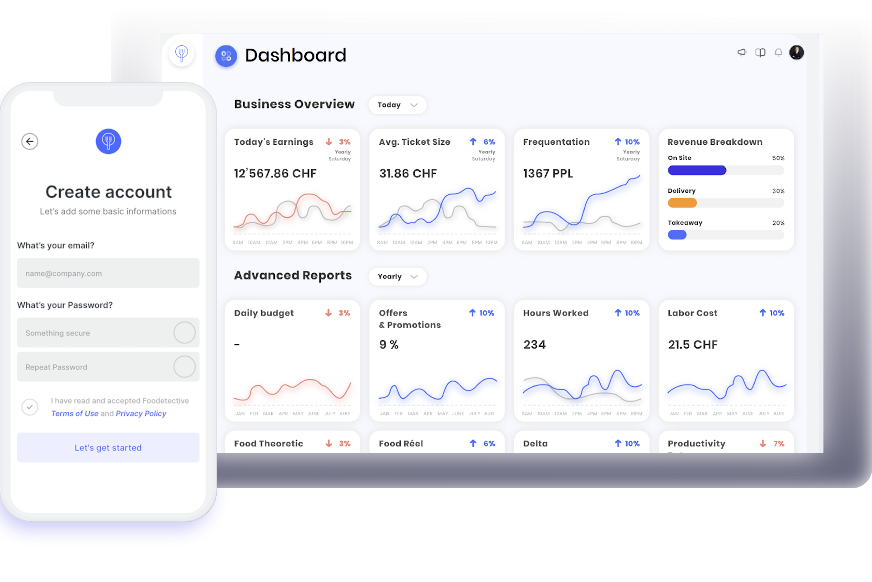
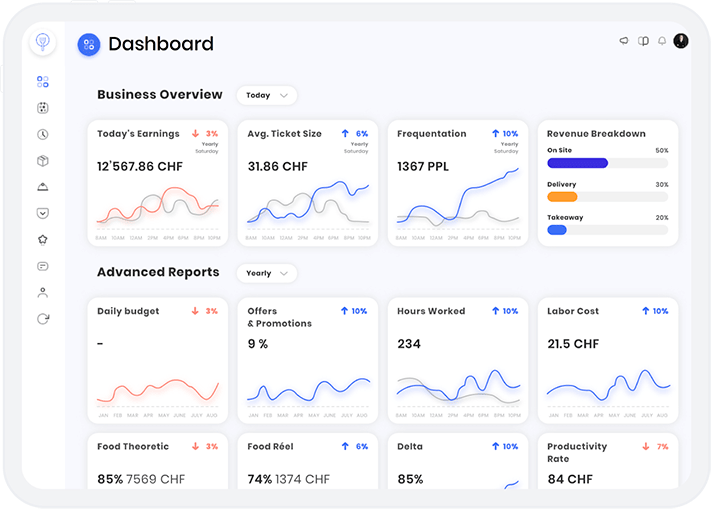
Add landing new styles
TFD-2678

diff --git a/sections/landing/Features/index.jsx b/sections/landing/Features/index.jsx
@@ -9,11 +9,27 @@ import { BlueText } from "../sharedStyled";
 const Features = ({ t, featuresRef }) => (
   <FeaturesWrapper width="auto" pt={75} pb={[0, 75]}>
     <Box ref={featuresRef} mt={[180, 280]} mb={[0, 60]} width={[1]}>
-      <H2Styled>{t("features.header")}</H2Styled>
-      <ParagraphStyled>
-        {t("features.subHeader.start")}
-        <BlueText>{t("features.subHeader.end")}</BlueText>
-      </ParagraphStyled>
+      <Flex
+        flexDirection={["column", "column", "row"]}
+        alignItems="center"
+        justifyContent="space-between"
+      >
+        <H2Styled>{t("features.header")}</H2Styled>
+        <Button
+          styleName="becomePartner"
+          onClick={() => {
+            window.location.href = `https://foodetective.typeform.com/to/tzqu8b`;
+          }}
+        >
+          {t("cooperations.becomePartner")}
+        </Button>
+      </Flex>
+      <Box width={[1, 3 / 4]}>
+        <ParagraphStyled big>
+          {t("features.subHeader.start")}
+          <BlueText>{t("features.subHeader.end")}</BlueText>
+        </ParagraphStyled>
+      </Box>
     </Box>
     <div
       style={{
@@ -37,16 +53,6 @@ const Features = ({ t, featuresRef }) => (
         controls
       />
     </div>
-    <Flex width={1} justifyContent="center" mt={[0, 40]}>
-      <Button
-        styleName="becomePartner"
-        onClick={() => {
-          window.location.href = `https://foodetective.typeform.com/to/tzqu8b`;
-        }}
-      >
-        {t("cooperations.becomePartner")}
-      </Button>
-    </Flex>
   </FeaturesWrapper>
 );
 

diff --git a/sections/landing/Features/styled.js b/sections/landing/Features/styled.js
@@ -1,13 +1,9 @@
-import styled, { css } from "styled-components";
+import styled from "styled-components";
 import { Flex } from "@rebass/grid";
-import { H2 } from "components";
-
-export const alignCenterMobile = css`
-  text-align: center;
-  @media (min-width: ${p => p.theme.breakpoints[0]}) {
-    text-align: start;
-  }
-`;
+import {
+  H2Styled as BaseH2Styled,
+  ParagraphStyled as BaseParagraphStyled
+} from "../sharedStyled";
 
 export const FeaturesWrapper = styled(Flex).attrs(() => ({
   justifyContent: "start",
@@ -19,12 +15,8 @@ export const FeaturesWrapper = styled(Flex).attrs(() => ({
   max-width: 1150px;
 `;
 
-export const H2Styled = styled(H2)`
-  ${alignCenterMobile}
-  color: black;
-  font-weight: ${p => p.theme.fontWeights.semiBold};
-  font-size: ${p => p.theme.fontSizes.f30};
-  letter-spacing: 0.6px;
+export const H2Styled = styled(BaseH2Styled)`
+  color: rgb(${p => p.theme.colors.darkText});
 `;
 
 export const Image = styled.img`
@@ -34,15 +26,7 @@ export const Image = styled.img`
   margin: 20px 0;
 `;
 
-export const ParagraphStyled = styled("p")`
-  ${alignCenterMobile}
+export const ParagraphStyled = styled(BaseParagraphStyled)`
   margin: 0;
-  color: black;
-  font-weight: 500;
-  font-size: ${p => p.theme.fontSizes.f16};
-  line-height: 20px;
-  letter-spacing: 0.3px;
-  @media (min-width: ${p => p.theme.breakpoints[2]}) {
-    font-size: ${p => p.theme.fontSizes.f16};
-  }
+  color: rgb(${p => p.theme.colors.darkText});
 `;

diff --git a/sections/landing/Plans/styled.js b/sections/landing/Plans/styled.js
@@ -1,13 +1,9 @@
-import styled, { css } from "styled-components";
-import { Flex, Box } from "@rebass/grid";
-import { H2, Paragraph } from "components";
-
-const alignCenterMobile = css`
-  text-align: center;
-  @media (min-width: ${p => p.theme.breakpoints[0]}) {
-    text-align: start;
-  }
-`;
+import styled from "styled-components";
+import { Box, Flex } from "@rebass/grid";
+import {
+  H2Styled as BaseH2Styled,
+  ParagraphStyled as BaseParagraphStyled
+} from "../sharedStyled";
 
 export const PlansWrapper = styled(Flex).attrs(() => ({
   flexDirection: "row",
@@ -37,20 +33,16 @@ export const PromotionWrapper = styled(Box).attrs(() => ({
   border-radius: ${p => p.theme.radius.default};
 `;
 
-export const H2Styled = styled(H2)`
-  ${alignCenterMobile}
-  color: #333;
-  font-weight: ${p => p.theme.fontWeights.bold};
-  font-size: ${p => p.theme.fontSizes.f30};
-  letter-spacing: 0.6px;
+export const H2Styled = styled(BaseH2Styled)`
+  color: rgb(${p => p.theme.colors.darkText});
 `;
 
-export const ParagraphStyled = styled(Paragraph)`
-  ${alignCenterMobile}
-  color: #828282;
-  font-weight: ${p => p.theme.fontWeights.medium};
-  font-size: ${p => p.theme.fontSizes.f15};
-  line-height: 20px;
-  letter-spacing: 0.3px;
-  opacity: 0.8;
+export const ParagraphStyled = styled(BaseParagraphStyled)`
+  ${p =>
+    p.big
+      ? `color: rgb(${p.theme.colors.darkText});`
+      : `
+    color: #828282;
+    opacity: 0.8;
+  `}
 `;

diff --git a/sections/landing/DevelopersAndApi/index.jsx b/sections/landing/DevelopersAndApi/index.jsx
@@ -2,18 +2,18 @@ import React from "react";
 import { func, oneOfType, shape, any } from "prop-types";
 import { Box, Flex } from "@rebass/grid";
 import { Button } from "components";
-import { DevelopersAndApiWrapper, ParagraphStyled } from "./styled";
-import { BlueText, H2Styled } from "../sharedStyled";
+import { DevelopersAndApiWrapper } from "./styled";
+import { BlueText, H2Styled, ParagraphStyled } from "../sharedStyled";
 
 const DevelopersAndApi = ({ t, developersAndApiRef }) => (
   <DevelopersAndApiWrapper ref={developersAndApiRef}>
     <Box width={[1, 1 / 2]}>
       <H2Styled>{t("developersAndApi.header")}</H2Styled>
-      <ParagraphStyled>
+      <ParagraphStyled big>
         {t("developersAndApi.subHeader.start")}
         <BlueText>{t("developersAndApi.subHeader.end")}</BlueText>
-        {t("developersAndApi.paragraph")}
       </ParagraphStyled>
+      <ParagraphStyled>{t("developersAndApi.paragraph")}</ParagraphStyled>
     </Box>
     <Flex width={1} justifyContent="center" mt={[40, 80]}>
       <Button

diff --git a/sections/landing/TopSection/index.jsx b/sections/landing/TopSection/index.jsx
@@ -6,9 +6,15 @@ import { FontAwesomeIcon } from "@fortawesome/react-fontawesome";
 import { H1Styled, ParagraphStyled, Image } from "./styled";
 
 const TopSection = ({ t, lng }) => (
-  <Box mt={[30, 170]} mb={[1, 170]} width={1}>
-    <Flex alignItems="start" flexWrap="wrap" m="auto" width={[1, 1150]} px={3}>
-      <Box width={[1, 1 / 2]} p={[3, 0]}>
+  <Box mb={[30, 170]} width={1}>
+    <Flex
+      alignItems="start"
+      flexWrap="wrap"
+      m="auto"
+      width={[1, 1, 1, 1150]}
+      px={3}
+    >
+      <Box width={[1, 1, 1, 1 / 2]} p={[3, 0]} pt={[30, 110]}>
         <H1Styled>{`${t("topSection.header.start")}${t(
           "topSection.header.end"
         )}`}</H1Styled>
@@ -48,8 +54,8 @@ const TopSection = ({ t, lng }) => (
           </Box>
         </Flex>
       </Box>
-      <Box width={[1, 1 / 2]}>
-        <Image />
+      <Box width={[1, 1, 1, 1 / 2]} pt={[30, 70]} pl={[1, 1, 1, 80]}>
+        <Image src="/static/img/topsection/dashboard.png" />
       </Box>
     </Flex>
   </Box>

diff --git a/sections/landing/TopSection/styled.js b/sections/landing/TopSection/styled.js
@@ -5,8 +5,10 @@ import { alignCenterMobile } from "../sharedStyled";
 export const H1Styled = styled(H1)`
   ${alignCenterMobile}
   color: white;
+  letter-spacing: 1.2px;
   @media (min-width: ${p => p.theme.breakpoints[2]}) {
-    font-size: ${p => p.theme.fontSizes.f52};
+    font-size: ${p => p.theme.fontSizes.f60};
+    line-height: 70px;
   }
 `;
 
@@ -22,19 +24,9 @@ export const ParagraphStyled = styled(Paragraph)`
   }
 `;
 
-export const Image = styled.div`
+export const Image = styled.img`
   width: 100%;
-  height: 100%;
-  min-height: 50vh;
-  max-height: 500px;
-  background-image: url("/static/img/topsection/dashboard.png");
-  background-repeat: no-repeat;
-  background-position: center center;
-  background-size: contain;
-  @media (min-width: ${p => p.theme.breakpoints[0]}) {
-    width: 100vw;
-    min-height: 600px;
-    max-height: 800px;
-    background-position: top left;
+  @media (min-width: ${p => p.theme.breakpoints[2]}) {
+    width: auto;
   }
 `;

diff --git a/sections/landing/DevelopersAndApi/styled.js b/sections/landing/DevelopersAndApi/styled.js
@@ -1,13 +1,5 @@
-import styled, { css } from "styled-components";
+import styled from "styled-components";
 import { Flex } from "@rebass/grid";
-import { Paragraph } from "components";
-
-export const alignCenterMobile = css`
-  text-align: center;
-  @media (min-width: ${p => p.theme.breakpoints[0]}) {
-    text-align: start;
-  }
-`;
 
 export const DevelopersAndApiWrapper = styled(Flex).attrs(() => ({
   justifyContent: "start",
@@ -16,16 +8,4 @@ export const DevelopersAndApiWrapper = styled(Flex).attrs(() => ({
   flex-direction: column;
   max-width: 1150px;
   margin: auto;
-`;
-
-export const ParagraphStyled = styled(Paragraph)`
-  ${alignCenterMobile}
-  color: #e0e0e0;
-  font-weight: 500;
-  font-size: ${p => p.theme.fontSizes.f15};
-  line-height: 20px;
-  letter-spacing: 0.3px;
-  @media (min-width: ${p => p.theme.breakpoints[2]}) {
-    font-size: ${p => p.theme.fontSizes.f16};
-  }
 `;

diff --git a/sections/landing/Plans/index.jsx b/sections/landing/Plans/index.jsx
@@ -29,11 +29,13 @@ const PlansMainComponent = ({
             justifyContent={["center", "space-between"]}
             mb={[20, 10]}
           >
-            <ParagraphStyled width={[1, 1 / 2]} mr={4}>
-              {t("plans:subHeader.start")}{" "}
-              <BlueText>{t("plans:subHeader.end")}</BlueText>
-              {t("plans:paragraph")}
-            </ParagraphStyled>
+            <Box width={[1, 1 / 2]} mb={[30, 0]} mr={4}>
+              <ParagraphStyled big>
+                {t("plans:subHeader.start")}{" "}
+                <BlueText>{t("plans:subHeader.end")}</BlueText>
+              </ParagraphStyled>
+              <ParagraphStyled>{t("plans:paragraph")}</ParagraphStyled>
+            </Box>
             <PlansBillingInterval
               {...{ t, billingInterval, handleChangeBillngPeriod }}
             />

diff --git a/sections/landing/Navigation/styled.js b/sections/landing/Navigation/styled.js
@@ -16,8 +16,8 @@ export const StyledParagraph = styled(Box).attrs(() => ({
   my: 0,
   px: 18
 }))`
-  font-weight: ${p => p.theme.fontWeights.regular};
-  font-size: ${p => p.theme.fontSizes.f16};
+  font-weight: ${p => p.theme.fontWeights.semiBold};
+  font-size: ${p => p.theme.fontSizes.f18};
   line-height: 28px;
   letter-spacing: 0.36px;
   cursor: pointer;
@@ -49,8 +49,8 @@ export const StyledHeaderParagraph = styled(Box).attrs(() => ({
   margin-bottom: 0;
   color: rgb(${p => p.theme.colors.white});
   font-weight: ${p => p.theme.fontWeights.semiBold};
-  font-size: ${p => p.theme.fontSizes.f24};
-  line-height: 30px;
+  font-size: ${p => p.theme.fontSizes.f18};
+  line-height: 21px;
   letter-spacing: 0.5px;
   word-spacing: 200px;
   span {

diff --git a/sections/landing/sharedStyled.js b/sections/landing/sharedStyled.js
@@ -34,9 +34,16 @@ export const ParagraphStyled = styled("p")`
   font-size: ${p => p.theme.fontSizes.f16};
   line-height: 20px;
   letter-spacing: 0.3px;
-  @media (min-width: ${p => p.theme.breakpoints[2]}) {
-    font-size: ${p => p.theme.fontSizes.f16};
-  }
+  ${p =>
+    p.big &&
+    `
+    margin-bottom: 16px;
+    line-height: 1.25;
+    color: rgb(${p.theme.colors.white});
+    font-weight: ${p.theme.fontWeights.semiBold};
+    font-size: ${p.theme.fontSizes.f30};
+    letter-spacing: 0.6px;
+  `}
 `;
 
 export const LandingWrapper = styled(Flex)`

diff --git a/sections/landing/Navigation/index.jsx b/sections/landing/Navigation/index.jsx
@@ -34,15 +34,13 @@ const Navigation = ({ t, lng, scrollTo }) => (
     flexDirection="column"
     mt={0}
   >
-    <Flex
-      css={{ background: "#27378e", width: "100%", margin: "0" }}
-      justifyContent="center"
-    >
+    <Flex css={{ width: "100%", margin: "0" }} justifyContent="center">
       <Flex
         justifyContent="space-between"
         width={1150}
         alignItems="center"
         px={3}
+        mt={25}
       >
         <Flex
           as="ul"

diff --git a/sections/landing/Services/index.jsx b/sections/landing/Services/index.jsx
@@ -7,8 +7,8 @@ import List from "./list";
 const Services = ({ t, servicesRef }) => (
   <ServicesWrapper ref={servicesRef} px={3} flexWrap="wrap">
     <H2Styled>{t("services.header")}</H2Styled>
-    <Box width={[1, 1 / 2]}>
-      <ParagraphStyled>
+    <Box width={[1, 3 / 4]}>
+      <ParagraphStyled big>
         {t("services.paragraph.start")}
         <BlueText>
           {t("services.paragraph.firstKeyword")}
